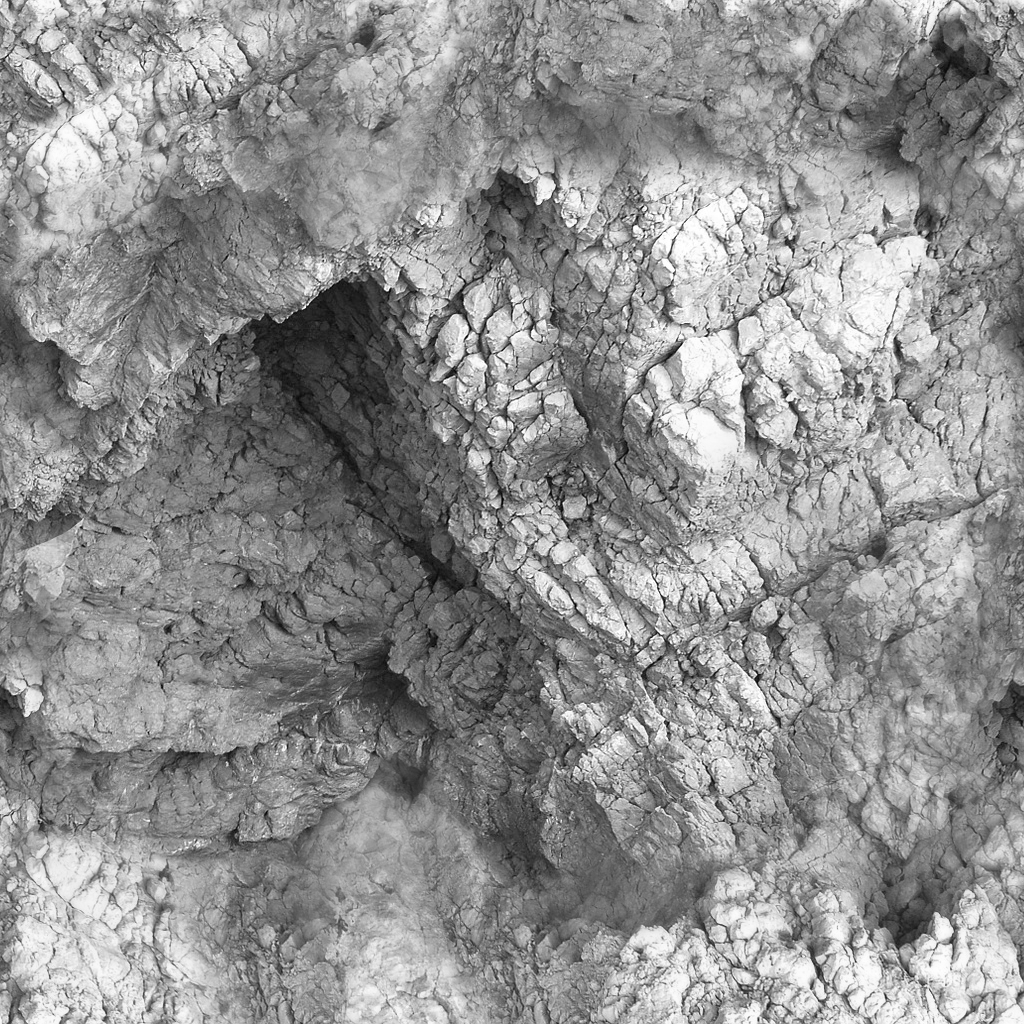
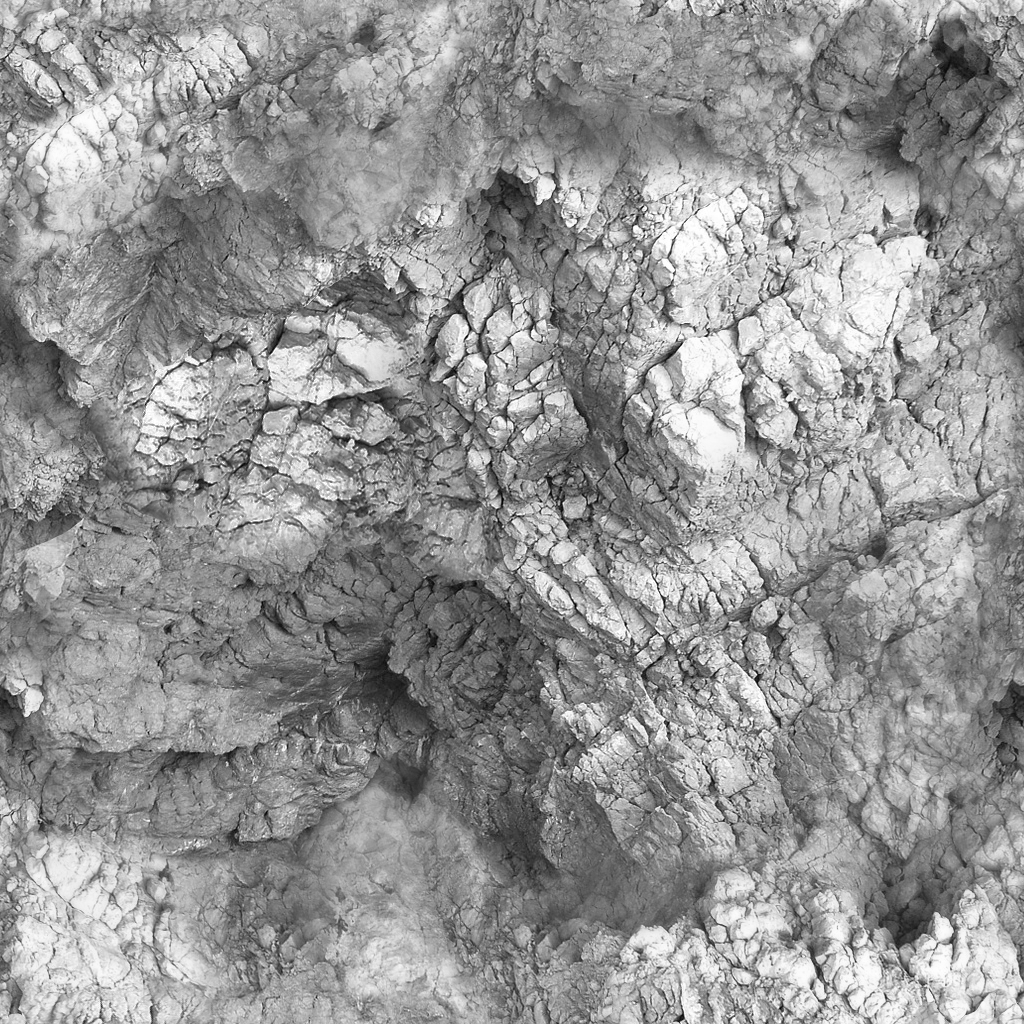
Replaced the solid black color inside wall cells with an ice texture, background ice textures loop better

diff --git a/Subsurface/Source/Map/Levels/LevelRenderer.cs b/Subsurface/Source/Map/Levels/LevelRenderer.cs
@@ -11,7 +11,7 @@ namespace Barotrauma
 {
     class LevelRenderer : IDisposable
     {
-        private static BasicEffect basicEffect;
+        private static BasicEffect wallEdgeEffect, wallCenterEffect;
 
         private static Sprite background, backgroundTop;
         private static Sprite dustParticles;
@@ -39,14 +39,29 @@ namespace Barotrauma
                 dustParticles = new Sprite("Content/Map/dustparticles.png", Vector2.Zero);
             }
 
-            if (basicEffect == null)
+            if (wallEdgeEffect == null)
             {
-                basicEffect = new BasicEffect(GameMain.CurrGraphicsDevice);
-                basicEffect.VertexColorEnabled = false;
-
-                basicEffect.TextureEnabled = true;
-                basicEffect.Texture = TextureLoader.FromFile("Content/Map/iceWall.png");
+                wallEdgeEffect = new BasicEffect(GameMain.CurrGraphicsDevice)
+                {
+                    DiffuseColor = new Vector3(0.8f, 0.8f, 0.8f),
+                    VertexColorEnabled = false,
+                    TextureEnabled = true,
+                    Texture = shaftTexture
+                };
+                wallEdgeEffect.CurrentTechnique = wallEdgeEffect.Techniques["BasicEffect_Texture"];
             }
+
+            if (wallCenterEffect == null)
+            {
+                wallCenterEffect = new BasicEffect(GameMain.CurrGraphicsDevice)
+                {
+                    VertexColorEnabled = false,
+                    TextureEnabled = true,
+                    Texture = backgroundTop.Texture
+                };
+                wallCenterEffect.CurrentTechnique = wallCenterEffect.Techniques["BasicEffect_Texture"];
+            }
+
             
             if (backgroundSpriteManager==null)
             {
@@ -79,9 +94,9 @@ namespace Barotrauma
             wallVertices.SetData(vertices);
         }
 
-        public void SetBodyVertices(VertexPositionColor[] vertices)
+        public void SetBodyVertices(VertexPositionTexture[] vertices)
         {
-            bodyVertices = new VertexBuffer(GameMain.CurrGraphicsDevice, VertexPositionColor.VertexDeclaration, vertices.Length, BufferUsage.WriteOnly);
+            bodyVertices = new VertexBuffer(GameMain.CurrGraphicsDevice, VertexPositionTexture.VertexDeclaration, vertices.Length, BufferUsage.WriteOnly);
             bodyVertices.SetData(vertices);
         }
 
@@ -96,19 +111,18 @@ namespace Barotrauma
 
             if (backgroundPos.Y < 1024)
             {
-                if (backgroundPos.Y > -1024)
-                {
-                    background.SourceRect = new Rectangle((int)backgroundPos.X, (int)Math.Max(backgroundPos.Y, 0), 1024, 1024);
-                    background.DrawTiled(spriteBatch,
-                        (backgroundPos.Y < 0) ? new Vector2(0.0f, -backgroundPos.Y) : Vector2.Zero,
-                        new Vector2(GameMain.GraphicsWidth, 1024 - backgroundPos.Y),
-                        Vector2.Zero, level.BackgroundColor);
-                }
-
                 if (backgroundPos.Y < 0)
                 {
                     backgroundTop.SourceRect = new Rectangle((int)backgroundPos.X, (int)backgroundPos.Y, 1024, (int)Math.Min(-backgroundPos.Y, 1024));
                     backgroundTop.DrawTiled(spriteBatch, Vector2.Zero, new Vector2(GameMain.GraphicsWidth, Math.Min(-backgroundPos.Y, GameMain.GraphicsHeight)),
+                        Vector2.Zero, level.BackgroundColor);
+                }
+                if (backgroundPos.Y > -1024)
+                {
+                    background.SourceRect = new Rectangle((int)backgroundPos.X, (int)Math.Max(backgroundPos.Y, 0), 1024, 1024);
+                    background.DrawTiled(spriteBatch,
+                        (backgroundPos.Y < 0) ? new Vector2(0.0f, (int)-backgroundPos.Y) : Vector2.Zero,
+                        new Vector2(GameMain.GraphicsWidth, (int)Math.Ceiling(1024 - backgroundPos.Y)),
                         Vector2.Zero, level.BackgroundColor);
                 }
             }
@@ -205,64 +219,21 @@ namespace Barotrauma
         {
             if (wallVertices == null) return;
             
-            basicEffect.World = cam.ShaderTransform
-                * Matrix.CreateOrthographic(GameMain.GraphicsWidth, GameMain.GraphicsHeight, -1, 1) * 0.5f;
+            wallEdgeEffect.World = cam.ShaderTransform
+                * Matrix.CreateOrthographic(GameMain.GraphicsWidth, GameMain.GraphicsHeight, -1, 100) * 0.5f;
+            wallCenterEffect.World = wallEdgeEffect.World;
 
+            //render the solid center of the wall cells
             graphicsDevice.SamplerStates[0] = SamplerState.LinearWrap;
-            graphicsDevice.BlendState = BlendState.AlphaBlend;
             graphicsDevice.SetVertexBuffer(bodyVertices);
-
-            basicEffect.VertexColorEnabled = true;
-            basicEffect.TextureEnabled = false;
-            basicEffect.CurrentTechnique = basicEffect.Techniques["BasicEffect_VertexColor"];
-            basicEffect.CurrentTechnique.Passes[0].Apply();
+            wallCenterEffect.CurrentTechnique.Passes[0].Apply();
             
             graphicsDevice.DrawPrimitives(PrimitiveType.TriangleList, 0, (int)Math.Floor(bodyVertices.VertexCount / 3.0f));
-
-            /*
-            for (int side = 0; side < 2; side++)
-            {
-                for (int i = 0; i < 2; i++)
-                {
-                    basicEffect.World = Matrix.CreateTranslation(new Vector3(level.WrappingWalls[side, i].Offset, 0.0f)) * cam.ShaderTransform
-                        * Matrix.CreateOrthographic(GameMain.GraphicsWidth, GameMain.GraphicsHeight, -1, 1) * 0.5f;
-                    basicEffect.CurrentTechnique.Passes[0].Apply();
-
-
-                    graphicsDevice.SetVertexBuffer(level.WrappingWalls[side, i].BodyVertices);
-
-                    graphicsDevice.DrawPrimitives(
-                        PrimitiveType.TriangleList, 0,
-                        (int)Math.Floor(level.WrappingWalls[side, i].BodyVertices.VertexCount / 3.0f));
-                }
-            }*/
-
-
-            graphicsDevice.SetVertexBuffer(wallVertices);
-            basicEffect.VertexColorEnabled = false;
-            basicEffect.TextureEnabled = true;
-            basicEffect.CurrentTechnique = basicEffect.Techniques["BasicEffect_Texture"];
-            basicEffect.CurrentTechnique.Passes[0].Apply();
-            graphicsDevice.DrawPrimitives(PrimitiveType.TriangleList, 0, (int)Math.Floor(wallVertices.VertexCount / 3.0f));
-            /*
-            for (int side = 0; side < 2; side++)
-            {
-                for (int i = 0; i < 2; i++)
-                {
-
-                    basicEffect.World = Matrix.CreateTranslation(new Vector3(level.WrappingWalls[side,i].Offset, 0.0f)) * cam.ShaderTransform
-                        * Matrix.CreateOrthographic(GameMain.GraphicsWidth, GameMain.GraphicsHeight, -1, 1) * 0.5f;
-                    basicEffect.CurrentTechnique.Passes[0].Apply();
-
-                    graphicsDevice.SetVertexBuffer(level.WrappingWalls[side, i].WallVertices);
-
-                    graphicsDevice.DrawPrimitives(
-                        PrimitiveType.TriangleList, 0,
-                        (int)Math.Floor(level.WrappingWalls[side, i].WallVertices.VertexCount / 3.0f));
-
-                }
-            }*/
             
+            //render the edges of the wall cells
+            graphicsDevice.SetVertexBuffer(wallVertices);
+            wallEdgeEffect.CurrentTechnique.Passes[0].Apply();
+            graphicsDevice.DrawPrimitives(PrimitiveType.TriangleList, 0, (int)Math.Floor(wallVertices.VertexCount / 3.0f));
         }
 
         public void Dispose()

diff --git a/Subsurface/Source/Map/Levels/CaveGenerator.cs b/Subsurface/Source/Map/Levels/CaveGenerator.cs
@@ -348,9 +348,9 @@ namespace Barotrauma
             return pathCells;
         }
 
-        public static List<Body> GeneratePolygons(List<VoronoiCell> cells, out List<VertexPositionColor> verticeList, bool setSolid=true)
+        public static List<Body> GeneratePolygons(List<VoronoiCell> cells, out List<VertexPositionTexture> verticeList, bool setSolid=true)
         {
-            verticeList = new List<VertexPositionColor>();
+            verticeList = new List<VertexPositionTexture>();
             var bodies = new List<Body>();
 
             List<Vector2> tempVertices = new List<Vector2>();
@@ -388,7 +388,12 @@ namespace Barotrauma
                 {
                     foreach (Vector2 vertex in triangles[i])
                     {
-                        verticeList.Add(new VertexPositionColor(new Vector3(vertex, 0.0f), Color.Black));
+                        //shift the coordinates around a bit to make the texture repetition less obvious
+                        Vector2 uvCoords = new Vector2(
+                            vertex.X / 2000.0f + (float)Math.Sin(vertex.X / 500.0f) * 0.15f,
+                            vertex.Y / 2000.0f + (float)Math.Sin(vertex.Y / 700.0f) * 0.15f);
+
+                        verticeList.Add(new VertexPositionTexture(new Vector3(vertex, 1.0f), uvCoords));
                     }
                 }
 

diff --git a/Subsurface/Source/Map/Levels/Level.cs b/Subsurface/Source/Map/Levels/Level.cs
@@ -437,7 +437,7 @@ namespace Barotrauma
 
             List<VoronoiCell> cellsWithBody = new List<VoronoiCell>(cells);
             
-            List<VertexPositionColor> bodyVertices;
+            List<VertexPositionTexture> bodyVertices;
             bodies = CaveGenerator.GeneratePolygons(cellsWithBody, out bodyVertices);
 
             renderer.SetBodyVertices(bodyVertices.ToArray());
